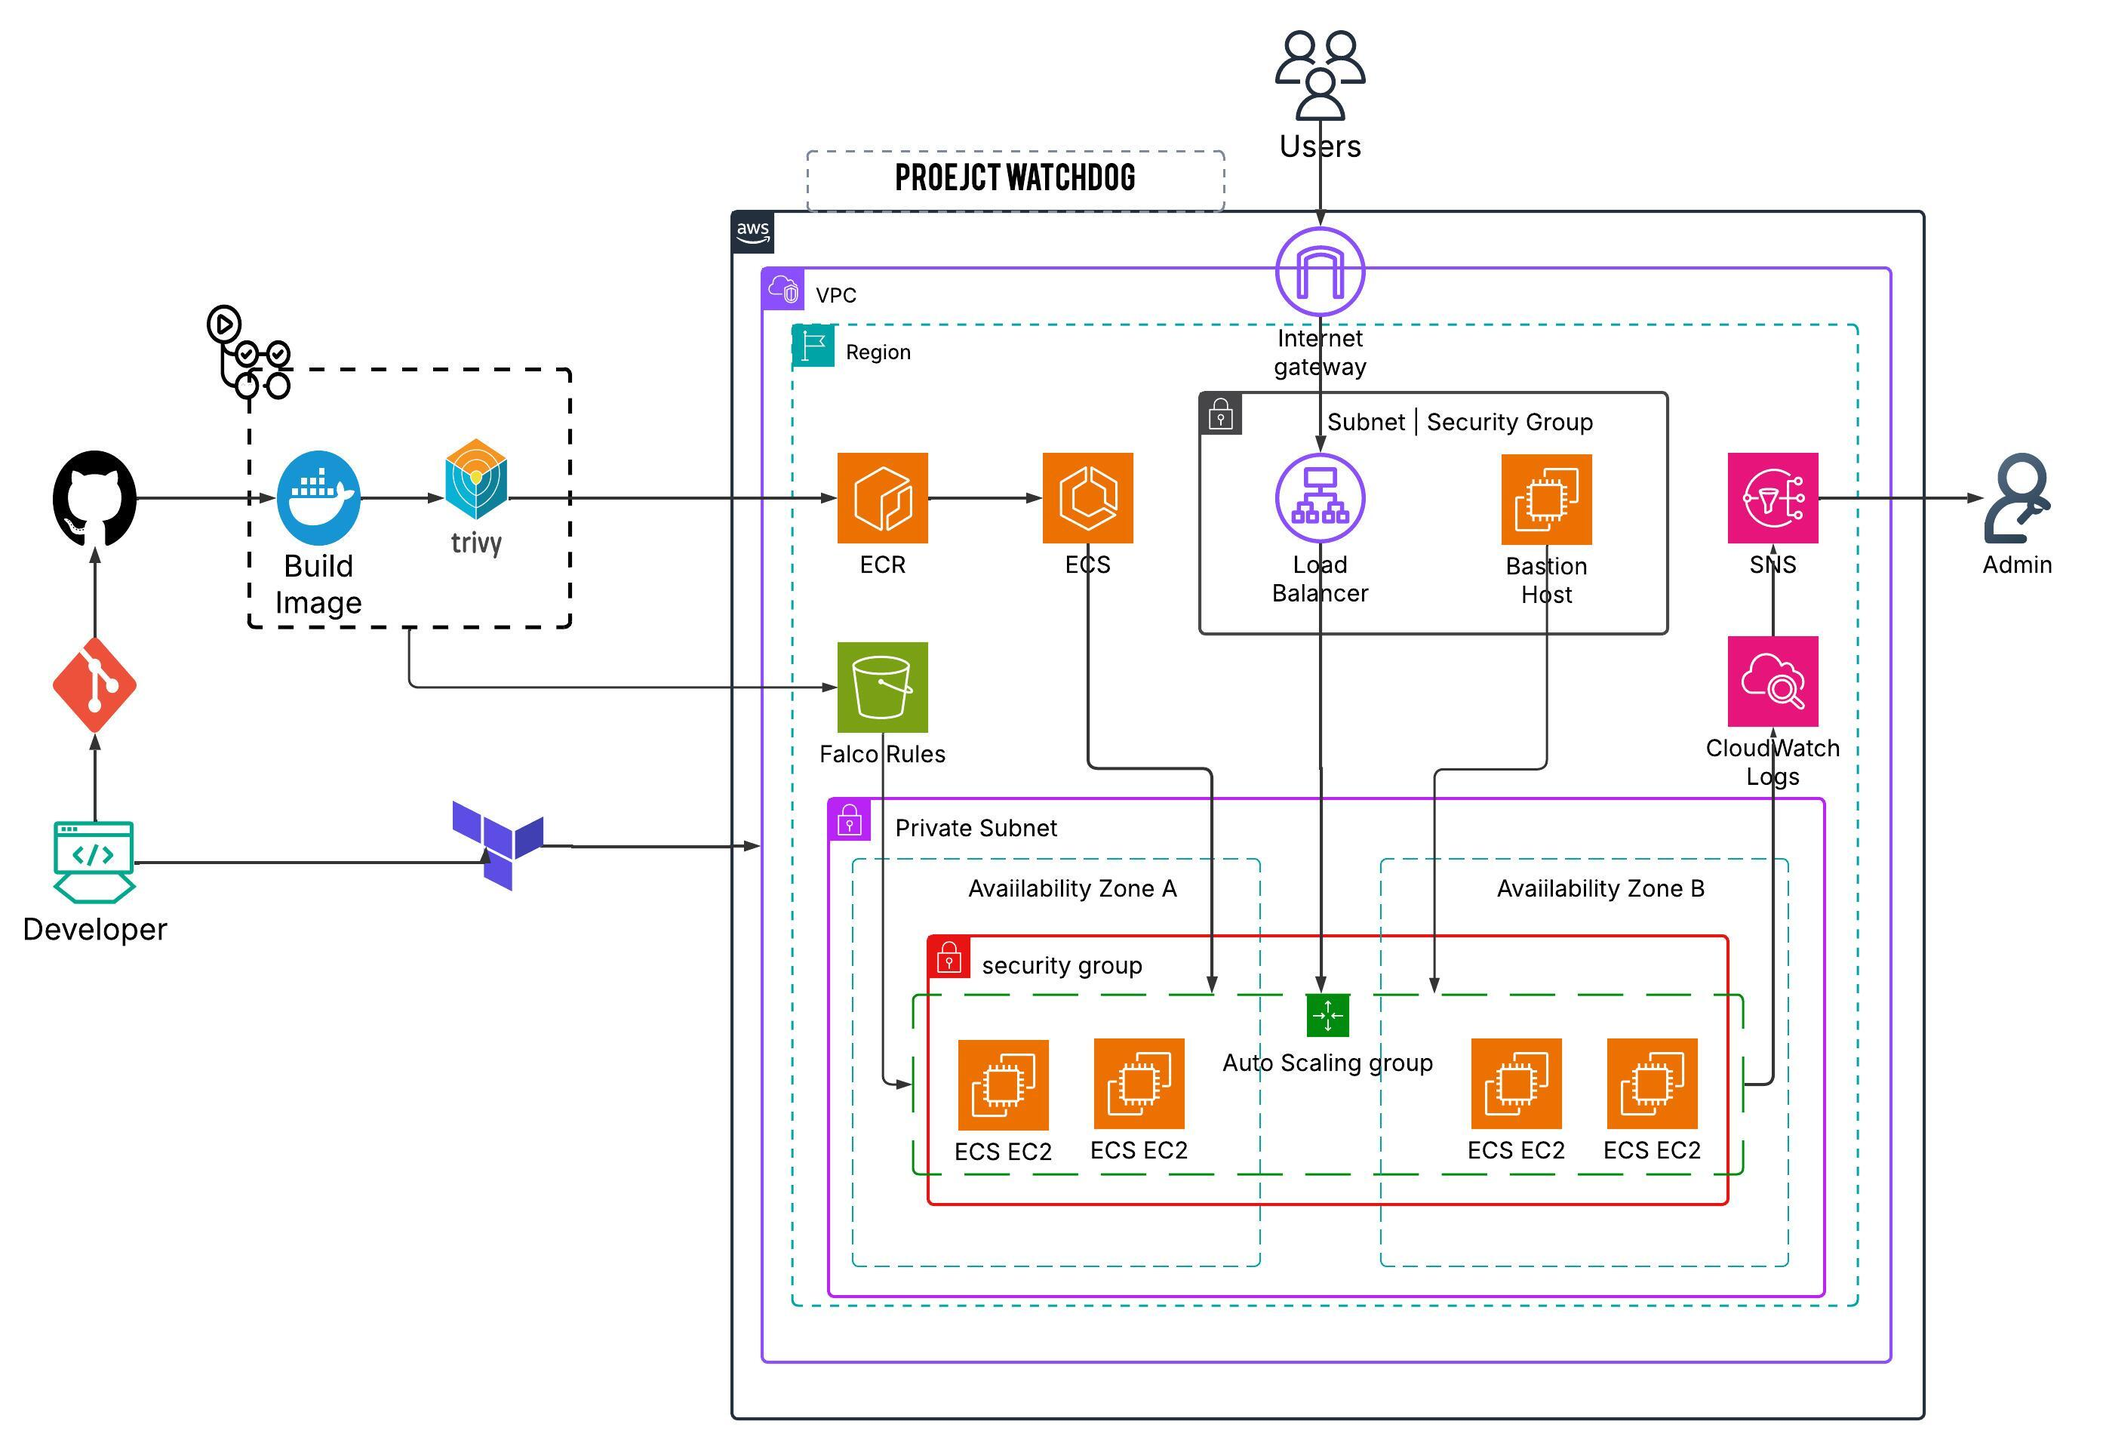
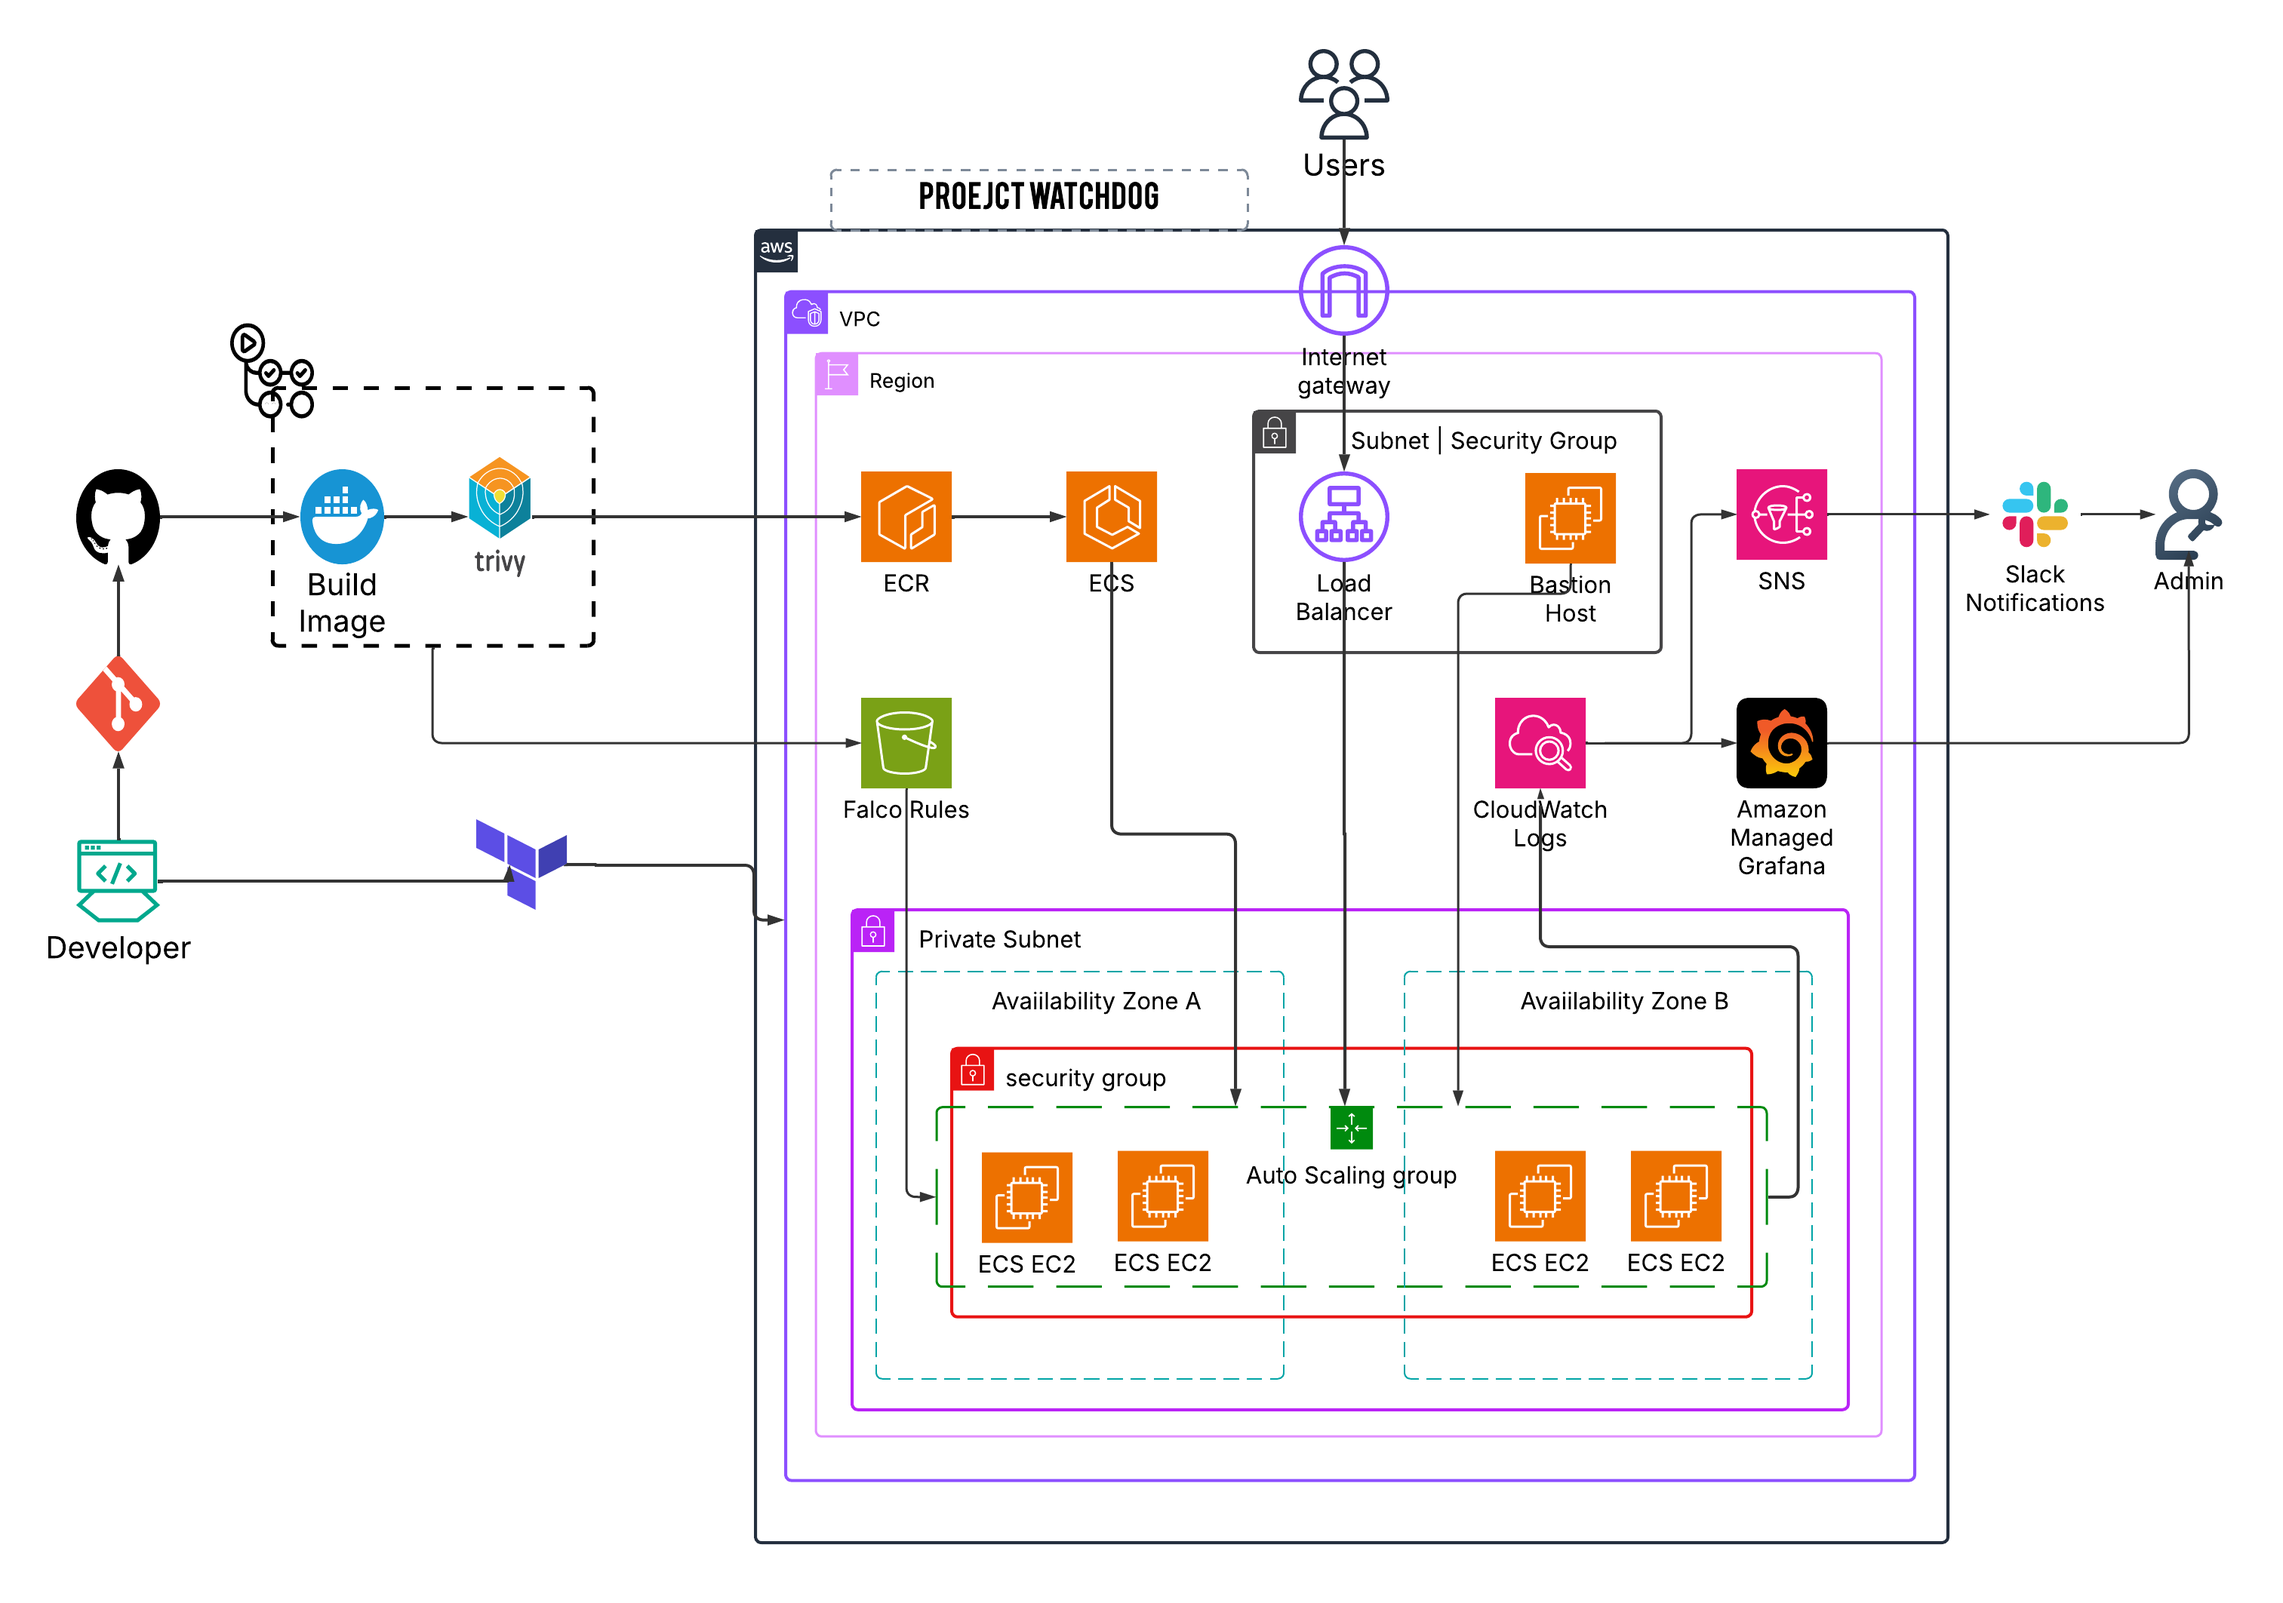
updated docs

diff --git a/README.md b/README.md
@@ -50,7 +50,7 @@
 - **Solution**: Runtime Security and active threat detection with Falco
 #### **Manual Security Processes That Don't Scale**
 - **Problem**: Security teams overwhelmed by manual processes
-- **Solution**: Automated response mechanisms and policy-driven security controls
+- **Solution**: Automated threat detection and response (Human in the loop system).
 
 ---
 
@@ -128,6 +128,8 @@
 - SSH access point in public subnet for administrative tasks
 - Secure gateway for accessing private resources
 - Integrated with security groups for controlled access
+#### **Lambda Function for Automated threat response**
+- Lambda function that tags instances with `ToBeInspected` on threat detection from that instance.
 
 ### Security Boundaries & Trust Zones
 
@@ -161,7 +163,7 @@
 - **GitHub Actions**: Automated CI/CD pipelines
 - **Docker**: Containerization with multi-stage and least privilege builds
 - **Trivy**: Comprehensive vulnerability scanner
-- **Falco**: Runtime security monitoring and threat detection
+- **Falco**: Runtime security monitoring with threat detection and response
 - **Security Scanning**: Automated security checks in pipeline
 - **CloudWatch Logs**: Centralized logging for Falco security events
 - **S3**: Secure storage for Falco custom rules with versioning
@@ -169,8 +171,7 @@
 ### **Monitoring and Alerting**
 - **Slack Integration**: Falco log alerts sent to slack channel
 - **Grafana**: Visualize EC2/Task metrics and resource usages.
-
-
+- **Lambda**: Tags instances that have emmited falco alerts.
 ## Prerequisites and Requirements
 
 ### **System Requirements**
@@ -246,11 +247,8 @@ terraform apply
 
 ### **Step 6: Access Application**
 ```bash
-# Get ALB DNS name from Terraform output
-terraform output alb_dns_name
-
 # Test the application
-curl -v http://your-alb-dns-name/api
+curl -kv https://your-alb-dns-name/api
 ```
 ### **Step 7: Deploy Falco Security Rules**
 ```bash
@@ -267,6 +265,10 @@ aws s3 cp falco/custom_rules.yaml s3://your-falco-bucket/custom_rules.yaml
 - Monitor Falco logs in CloudWatch
 - Review security group configurations
 - Validate IAM role permissions
+- Verify automated threat detection
+  - Set the `your-local-ip` variable in `terraform.tfvars`.
+  - SSH into an ecs host from the bastion and perform a prohibited event (e.g `sudo -i`).
+  - Wait a while, that instance should now be tagged as `ToBeInspected`.
 
 ---
 
@@ -304,6 +306,7 @@ terraform/
     ├── bastion/        # Bastion host for secure access
     ├── grafana/        # Amazon Managed Grafana workspace 
     ├── falco/          # Falco security monitoring setup
+    ├── lambda/         # Auto tag instance with "ToBeInspected"
     ├── vpc/            # Network infrastructure
     ├── security_group/ # Security groups
     ├── iam/            # IAM roles and policies
@@ -351,7 +354,7 @@ The Trivy scanner configuration:
 #### **Falco Rules Deployment Pipeline**
 The Falco workflow (`.github/workflows/falco_workflow.yml`) performs:
 
-1. **Rule Validation**: Ensures custom rules are properly formatted
+1. **Rule Validation**: Ensures custom rules are properly formatted(Not Implemented yet).
 2. **S3 Deployment**: Uploads rules to dedicated S3 bucket
 3. **Automatic Updates**: EC2 instances pull updated rules via cron job
 
@@ -369,7 +372,7 @@ Basic health check endpoint.
 curl https://yourdomain.com/api
 
 # Or using ALB DNS directly
-curl https://your-alb-dns-name/api
+curl -kv https://your-alb-dns-name/api
 ```
 
 **Response:**
@@ -388,7 +391,7 @@ curl https://your-alb-dns-name/api
 #### **Useful Terraform Outputs**
 ```bash
 # Get important deployment information
-terraform output alb_dns_name          # ALB DNS for testing
+terraform output curl_testing_app_url   # curl cmd for testing
 terraform output ecr_repo_name          # ECR repository name
 terraform output falco_bucket_name      # S3 bucket for Falco rules
 terraform output bastion_ssh_command    # SSH command for bastion access
